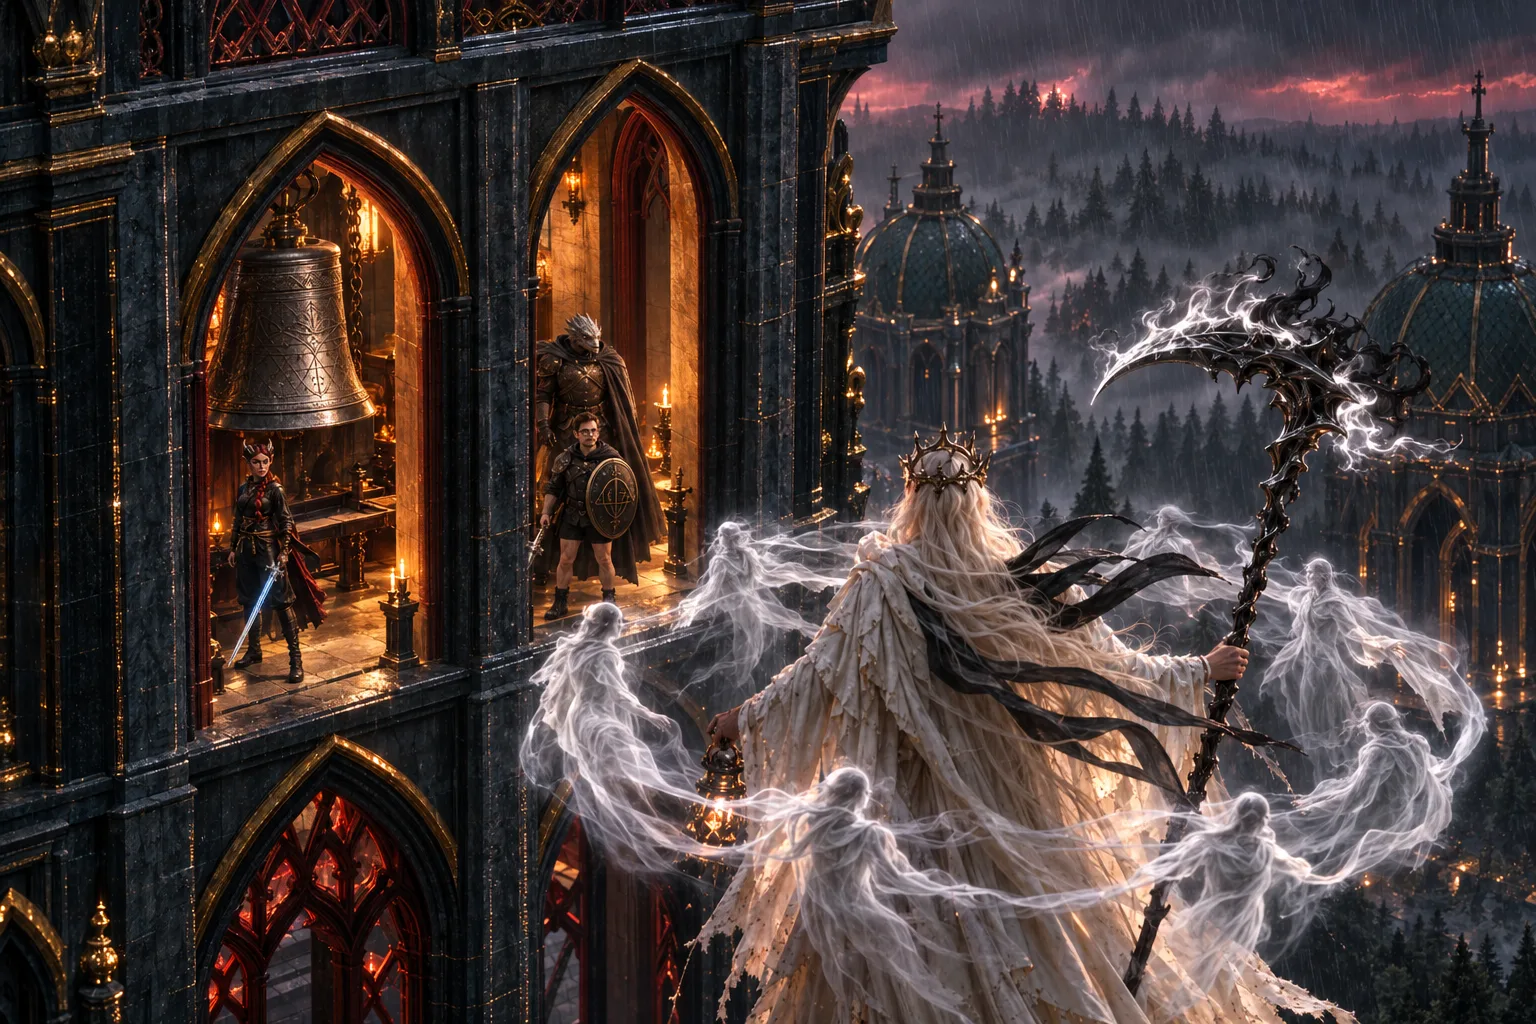
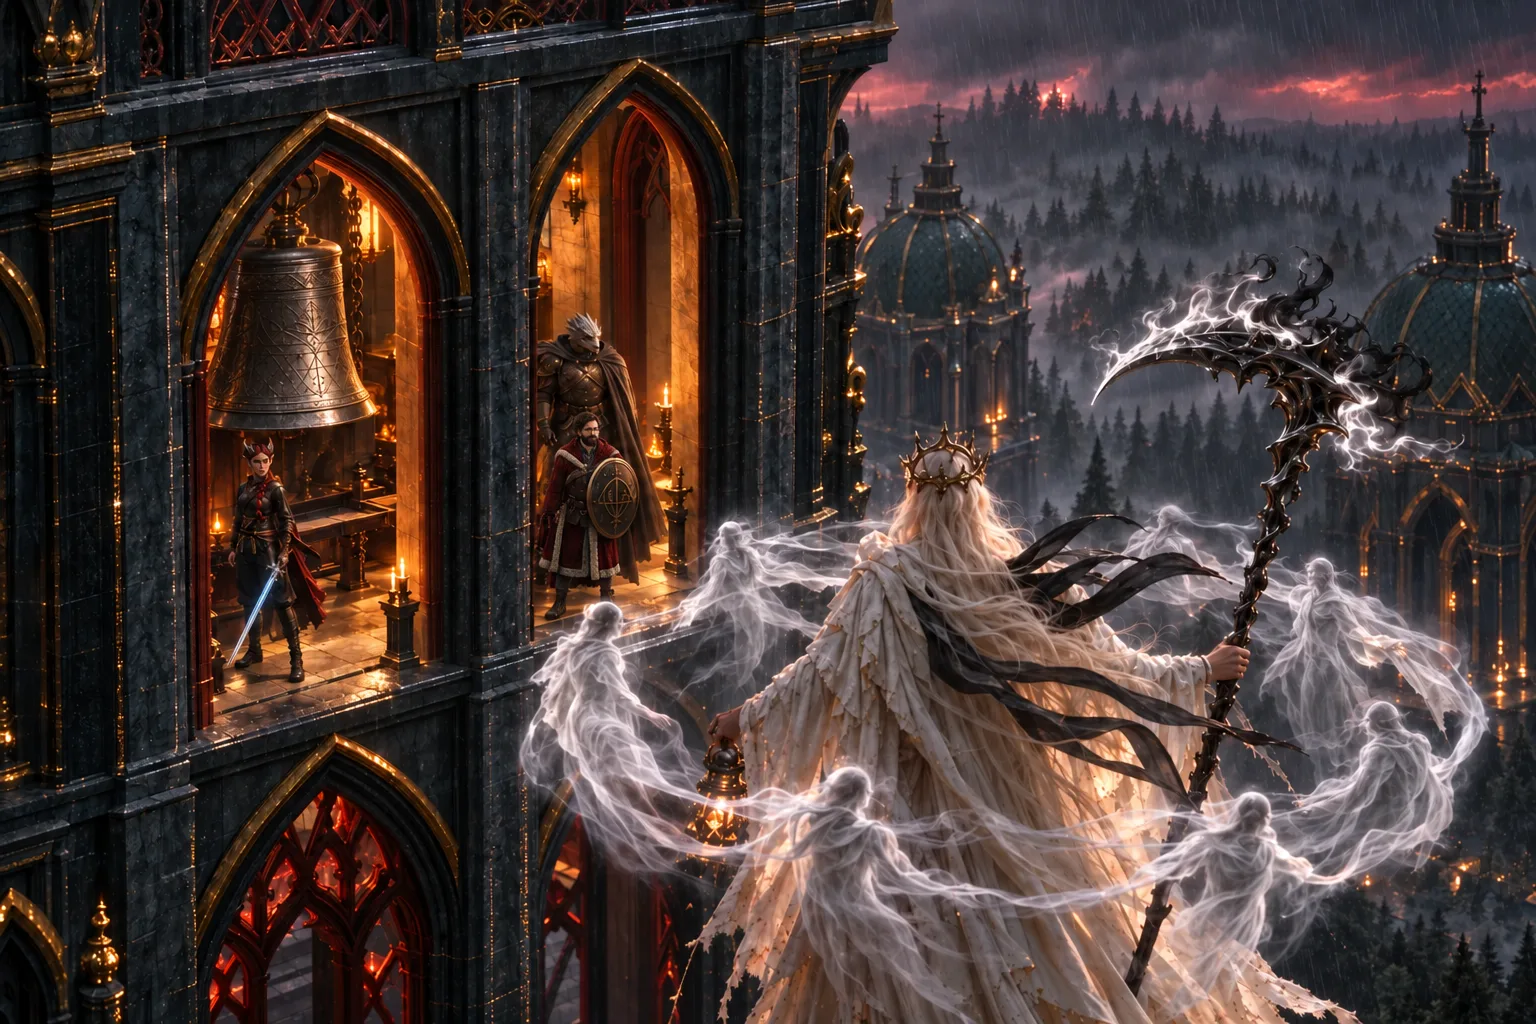
Korth Ep 22: Eric redrawn in eight pictures, new leap picture, deck picture added

diff --git a/src/content/docs/sessions/korth-ep-22-the-reckoning-of-the-mother.md b/src/content/docs/sessions/korth-ep-22-the-reckoning-of-the-mother.md
@@ -135,6 +135,9 @@ gallery:
   - src: /images/album/korth-ep-22-the-reckoning-of-the-mother-the-heir.webp
     alt: The Heir of Vol, grown colossal, rises beside Nos Matre
     caption: 'Lexical rendering: The Heir of Vol, grown colossal, rises beside Nos Matre - Korth Ep 22, The Reckoning of the Mother'
+  - src: /images/album/korth-ep-22-the-reckoning-of-the-mother-on-deck.webp
+    alt: 'On the deck of the Revenge: Gemma and Roberts, and Eric with Dario, as the valley burns'
+    caption: 'Lexical rendering: On the deck of the Revenge: Gemma and Roberts, and Eric with Dario, as the valley burns - Korth Ep 22, The Reckoning of the Mother'
 ---
 
 **The Unforeseen Strikes Back · Korth arc · Episode 22 · DM: Dave**
@@ -864,6 +867,9 @@ He told Eric that he looked good and that he liked the mustache. Eric thanked hi
 Valtrex lived to fight another infection. Somebody wondered how LeBeefe was feeling, wherever he was. Uriel had eaten one of his children.
 
 Dario slumped against the wall and wept.
+
+![On the deck of the Revenge: Gemma and Roberts, and Eric with Dario, as the valley burns](/images/album/korth-ep-22-the-reckoning-of-the-mother-on-deck.webp)
+*On the deck of the Revenge: Gemma and Roberts, and Eric with Dario, as the valley burns.*
 
 ## Revelations
 

diff --git a/src/content/docs/people/pirate-joseph-roberts.md b/src/content/docs/people/pirate-joseph-roberts.md
@@ -67,6 +67,9 @@ gallery:
   - src: /images/album/korth-ep-22-the-reckoning-of-the-mother-the-revenge-at-the-roof.webp
     alt: "The Revenge at the cathedral roof as the Heir rises"
     caption: "Lexical rendering: The Revenge at the cathedral roof as the Heir rises - Korth Ep 22, The Reckoning of the Mother"
+  - src: /images/album/korth-ep-22-the-reckoning-of-the-mother-on-deck.webp
+    alt: "On the deck of the Revenge: Gemma and Roberts, and Eric with Dario, as the valley burns"
+    caption: "Lexical rendering: On the deck of the Revenge: Gemma and Roberts, and Eric with Dario, as the valley burns - Korth Ep 22, The Reckoning of the Mother"
 ---
 
 **Pirate · Fleet commander · The Collector · Alive, and wanted**

diff --git a/src/content/docs/people/gemma-corso.md b/src/content/docs/people/gemma-corso.md
@@ -173,6 +173,9 @@ gallery:
   - src: /images/album/korth-ep-22-the-reckoning-of-the-mother-the-window.webp
     alt: "Gemma in the arch of the belfry as the guardians come"
     caption: "Lexical rendering: Gemma in the arch of the belfry as the guardians come - Korth Ep 22, The Reckoning of the Mother"
+  - src: /images/album/korth-ep-22-the-reckoning-of-the-mother-on-deck.webp
+    alt: "On the deck of the Revenge: Gemma and Roberts, and Eric with Dario, as the valley burns"
+    caption: "Lexical rendering: On the deck of the Revenge: Gemma and Roberts, and Eric with Dario, as the valley burns - Korth Ep 22, The Reckoning of the Mother"
 campaigns:
   - unforeseen
   - the-unforeseen-strike-back
